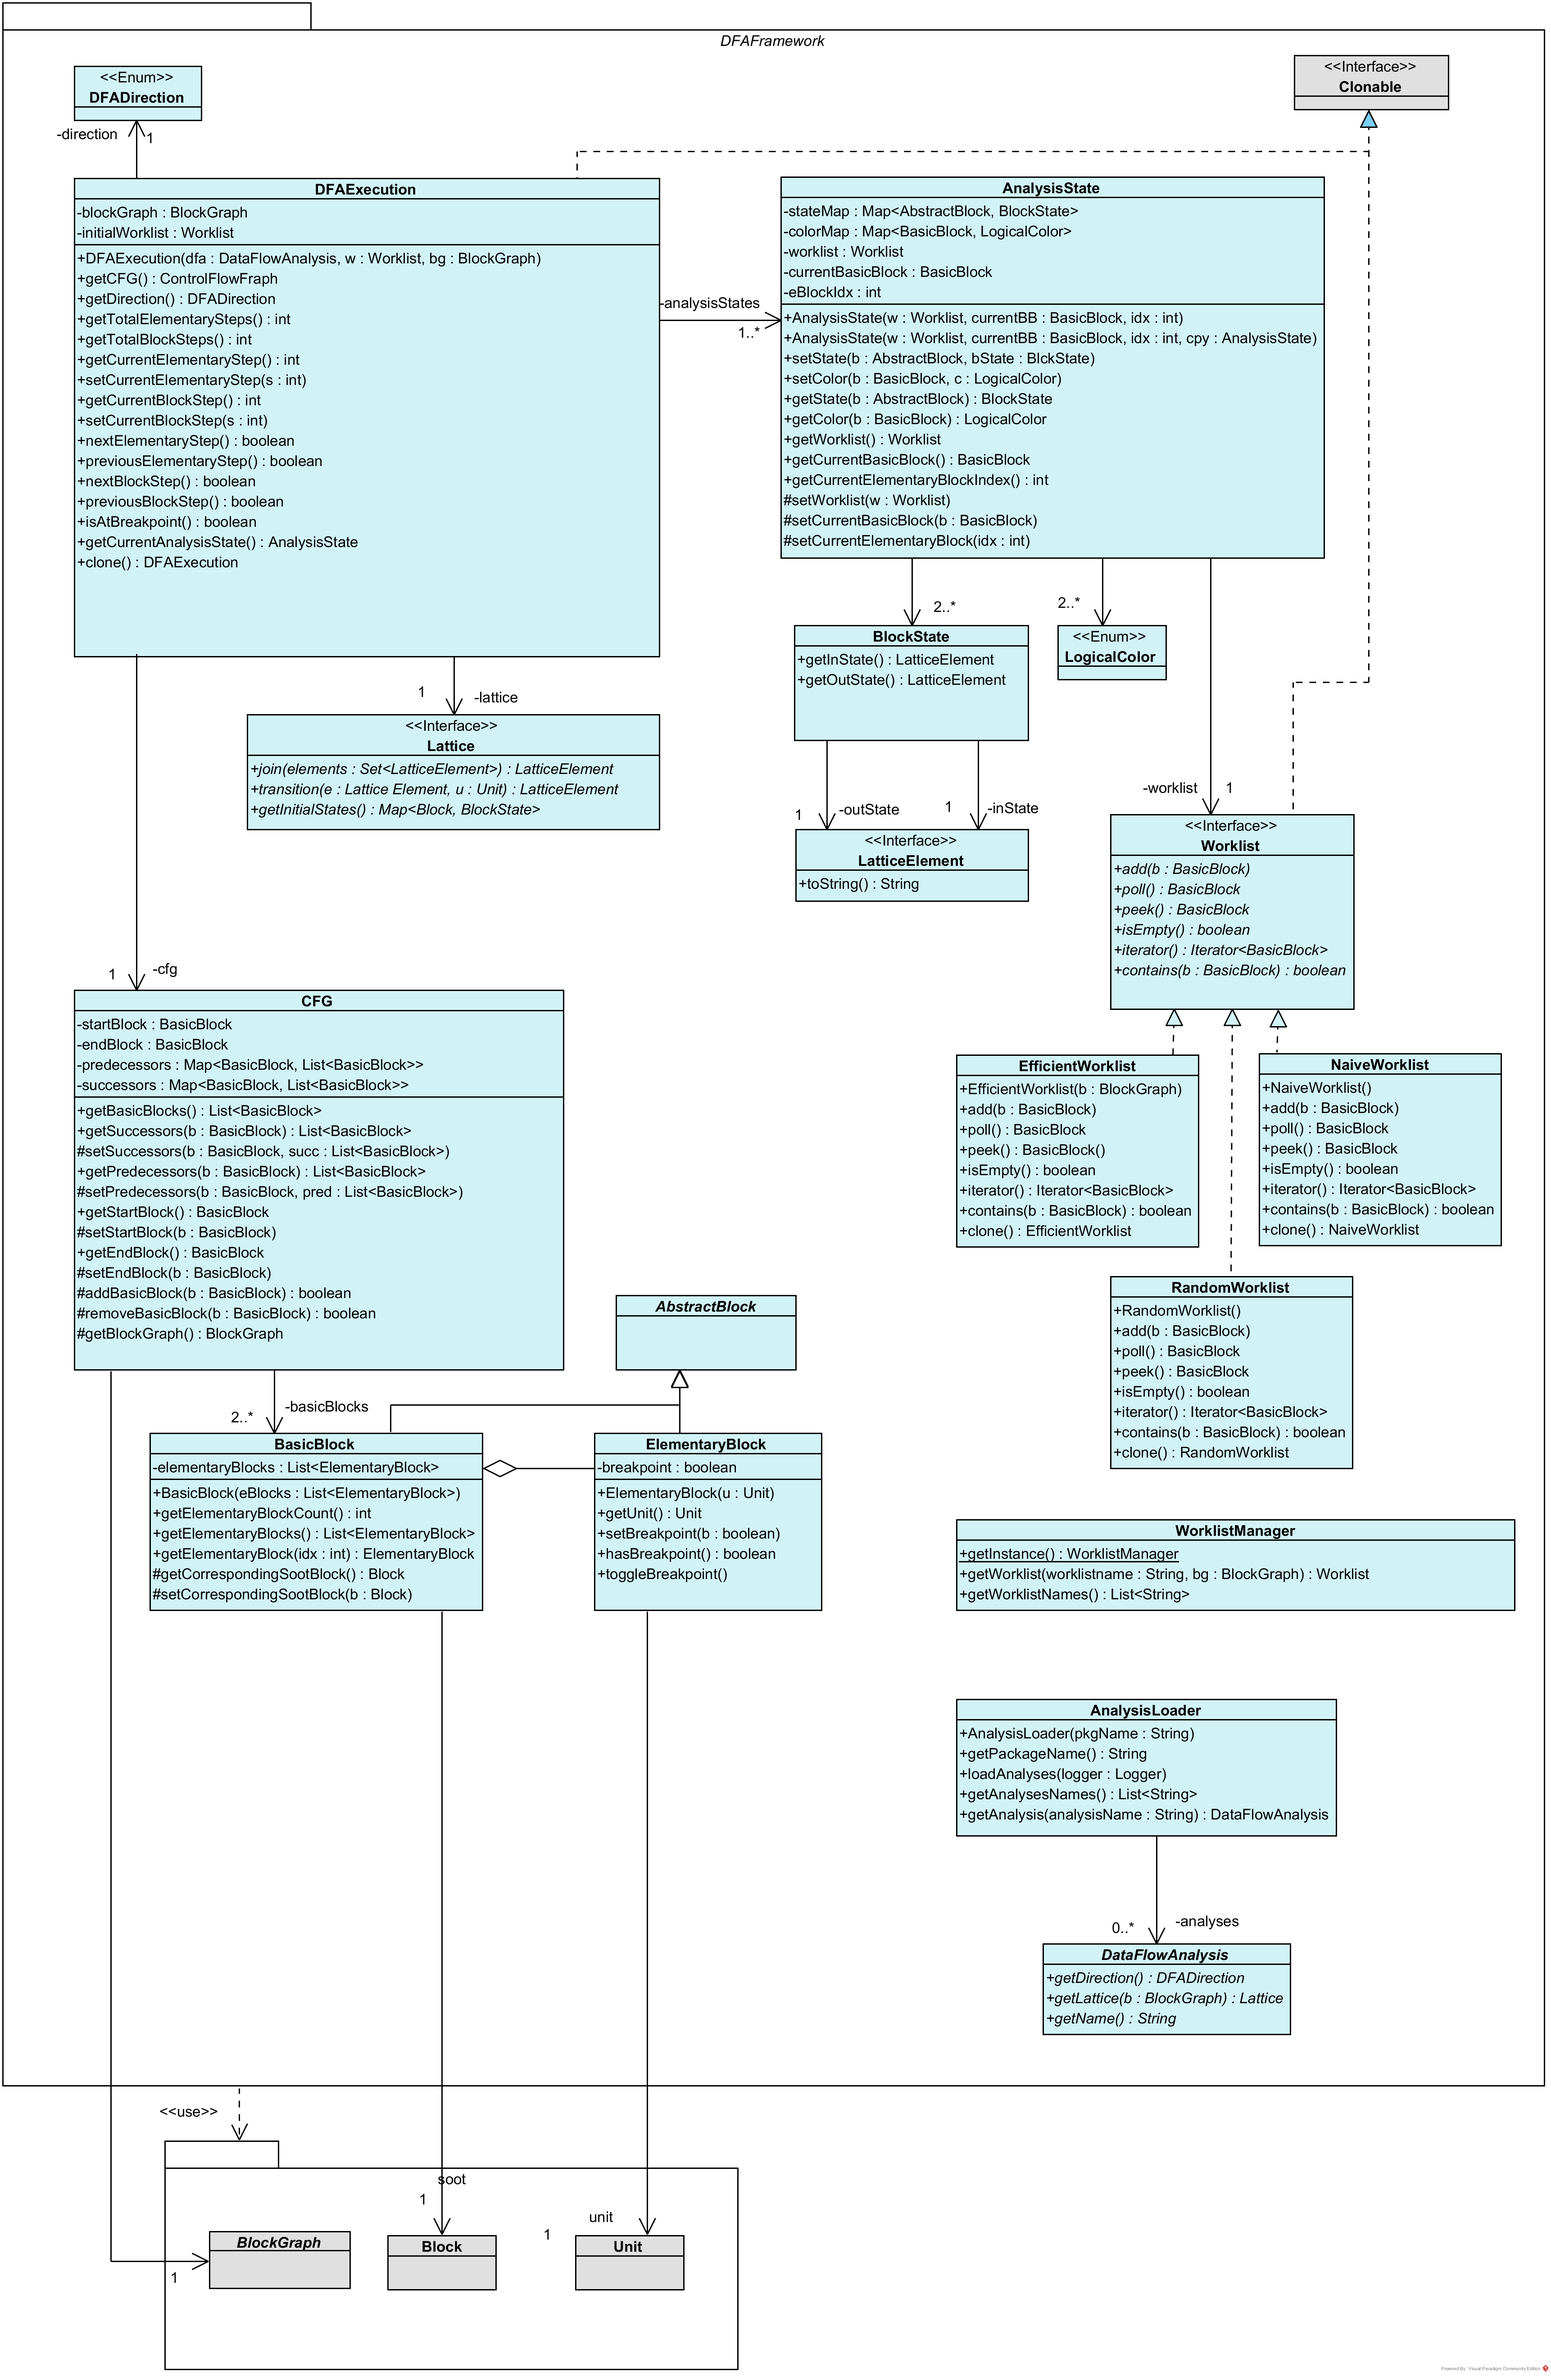
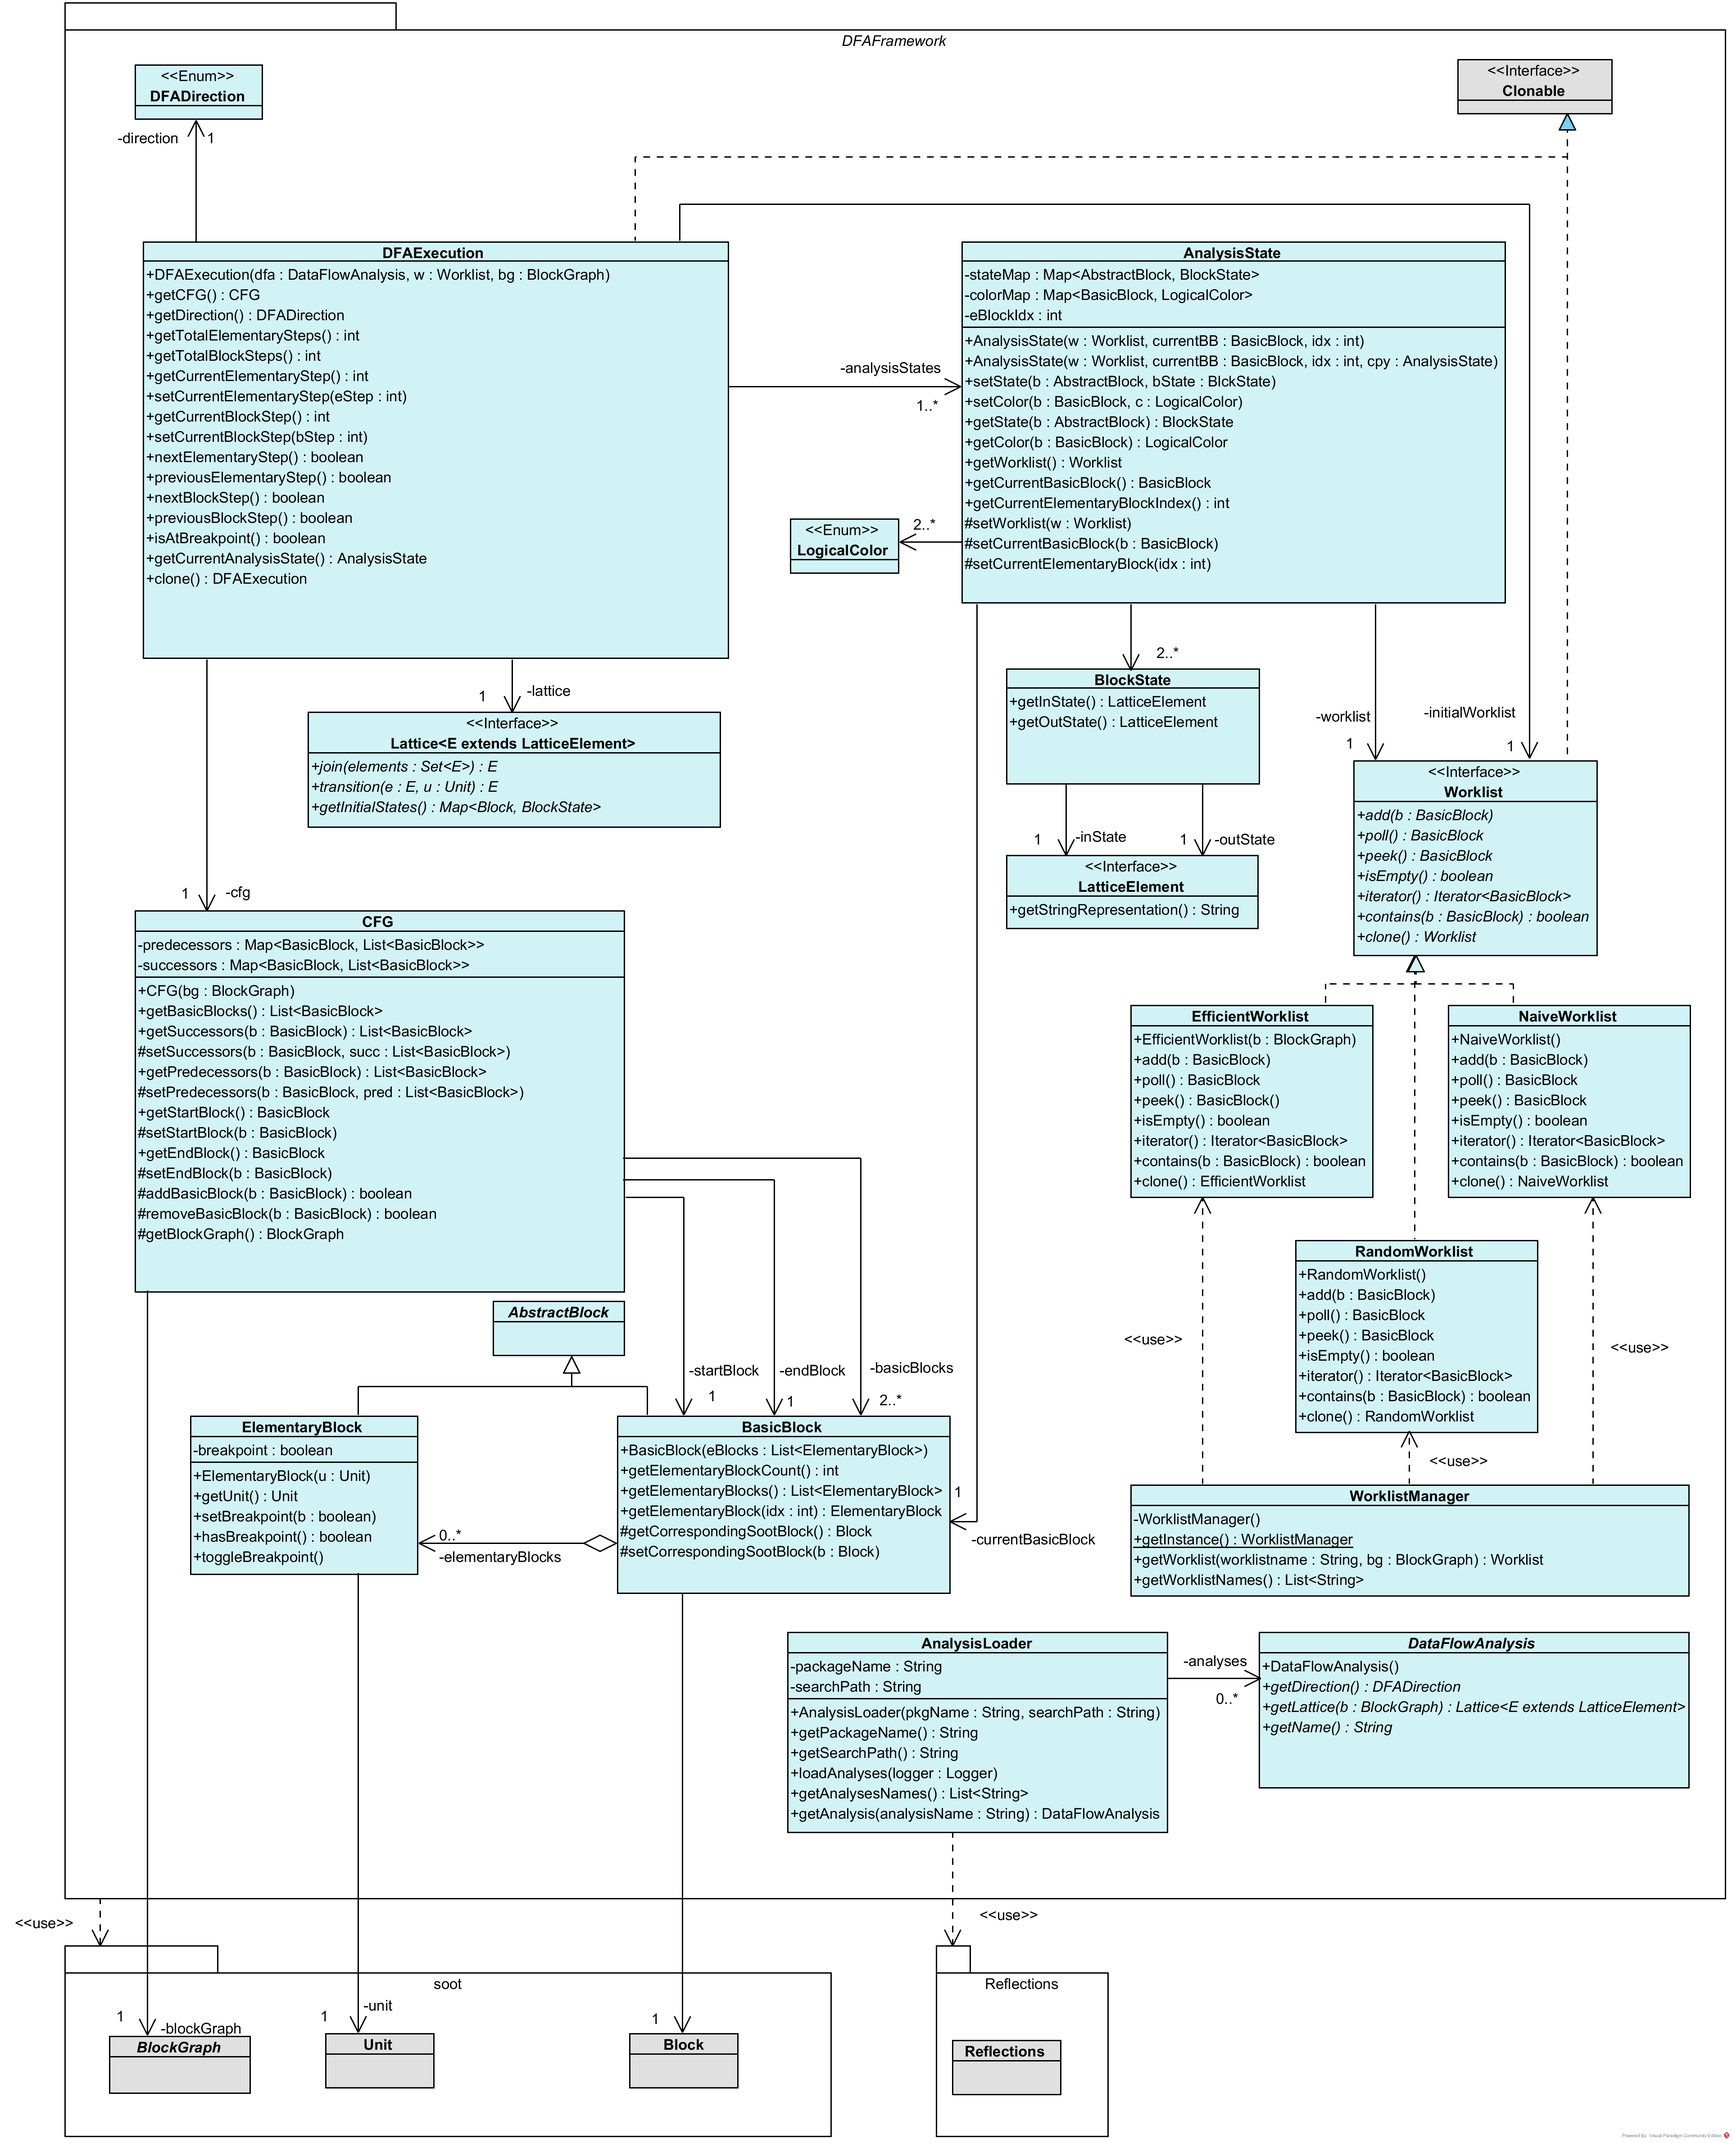
Aktualisiere Diagramme und fuege komplettes Klassendiagramm hinzu.

diff --git a/Entwurf/Sequenzdiagramme/Sequenzdiagramme.tex b/Entwurf/Sequenzdiagramme/Sequenzdiagramme.tex
@@ -2,9 +2,8 @@
 
 \part{Sequenzdiagramme}
 
-\section{Starten des Programms}
-\FloatBarrier
-\begin{figure}
+\section*{Starten des Programms}
+\begin{figure}[H]
   \centering
     \includegraphics[width=1\textwidth]{Sequenzdiagramme/ProgramStart}
   \caption{Starten des Programms}
@@ -14,55 +13,77 @@
 \clearpage
 
 
-\section{Konstruktor der DFAExecution}
+\section*{Konstruktor der DFAExecution}
+\begin{figure}[H]
+	\centering
+	\includegraphics[width=1\textwidth]{Sequenzdiagramme/KonstruktorDFAExecution}
+	\caption{Konstruktoraufruf bei der DFAExecution}
+	\label{fig:dfactor}
+\end{figure}
+\FloatBarrier
 \clearpage
 
 
-\section{Erstellen eines neuen Graphen}
-\begin{figure}[!htp]
+\section*{Erstellen eines neuen Graphen}
+\begin{figure}[H]
   \centering
-    \includegraphics[width=1\textwidth]{Sequenzdiagramme/CreateNewGraph}
-  \caption{Konstruktor der DFAExecution}
-  \label{fig:constructor}
+    \includegraphics[width=1\textwidth]{Sequenzdiagramme/CreateGraph}
+  \caption{Erstellen eines neuen Graphen}
+  \label{fig:creategraph}
 \end{figure}
 \newpage
-\clearpage
 
-\section{Starten der Analyse}
-\begin{figure} [!htp]
+\section*{Graphen aktualisieren}
+\begin{figure}[H]
+	\centering
+	\includegraphics[width=1\textwidth]{Sequenzdiagramme/RefreshGraph}
+	\caption{Aktualisieren des Graphen}
+	\label{fig:graphrefresh}
+\end{figure}
+\newpage
+
+\section*{Starten der Analyse}
+\begin{figure}[H]
   \centering
     \includegraphics[width=1\textwidth]{Sequenzdiagramme/AnalysisStart}
   \caption{Starten der Analyse}
   \label{fig:anaStart}
 \end{figure}
-\FloatBarrier
-\clearpage
+\newpage
 
-\section{Stoppen der Analyse}
-\begin{figure}[!htp]
+\section*{Stoppen der Analyse}
+\begin{figure}[H]
   \centering
     \includegraphics[width=1\textwidth]{Sequenzdiagramme/AnalysisStop}
   \caption{Stoppen der Analyse}
   \label{fig:anaStop}
 \end{figure}
-\clearpage
+\newpage
 
-\section{Den folgenden Block analysieren}
-\begin{figure}[!htp]
+\section*{Den folgenden Block analysieren}
+\begin{figure}[H]
   \centering
     \includegraphics[width=1\textwidth]{Sequenzdiagramme/NextBlock}
   \caption{Den folgenden Block analysieren}
   \label{fig:nextblock}
 \end{figure}
-\FloatBarrier
-\clearpage
+\newpage
 
-\section{Breakpoint setzen}
-\begin{figure}[!htp]
+\section*{Breakpoint setzen}
+\begin{figure}[H]
   \centering
     \includegraphics[width=1\textwidth]{Sequenzdiagramme/SetBreakpoint}
   \caption{Breakpoint setzen}
   \label{fig:breakpoint}
 \end{figure}
-\clearpage
-\FloatBarrier
+\newpage
+
+
+\section*{Graphexport}
+\begin{figure}[H]
+	\centering
+	\includegraphics[width=1\textwidth]{Sequenzdiagramme/GraphExport}
+	\caption{Export des Graphen}
+	\label{fig:graphexport}
+\end{figure}
+\newpage

diff --git a/Entwurf/Klassenuebersicht/Klassenuebersicht.tex b/Entwurf/Klassenuebersicht/Klassenuebersicht.tex
@@ -1,30 +1,4 @@
 %note: don't split this document up with include{...}
 
-\part{Klassenbeschreibung}
+%\part{Klassenbeschreibung}
 
-% the template for one class description
-
-%\class{SomeClass extends Watever implements DontCare}
-%Brief descrition of SomeClass.
-
-%\subparagraph{Attribute} % skip this if there are no attributes
-%\begin{itemize}
-%	\item \attr{attrName}{type}{visibility}{
-%		Description of the attribute.
-%	}
-%\end{itemize}
-%
-%
-%\subparagraph{Konstruktoren} % skip this if there are no constructors
-%\begin{itemize}
-%	\item \method{constructorName}{type}{paramList}{visibility}{
-%		Description of the constructor.
-%	}
-%\end{itemize}
-%
-%\subparagraph{Methoden}  % skip this if there are no methods
-%\begin{itemize}
-%	\item \method{methodName}{type}{paramList}{visibility}{
-%		Description of the method.
-%	}
-%\end{itemize}

diff --git a/Entwurf/AenderungenPflichtenheft/AenderungenPflichtenheft.tex b/Entwurf/AenderungenPflichtenheft/AenderungenPflichtenheft.tex
@@ -1,7 +1,6 @@
 \part{Nachträgliche Änderungen am Pflichtenheft}
 
-\subparagraph{Unterstütztes Java-Subset}
-
+\subsection*{Unterstütztes Java-Subset} 
 Da jede Analyse mit (Jimple-)Statements auf eine eigene Art und Weise umgeht, ist in jeder implementierten Analyse der Umgang mit den Statements einzeln definiert.
 Dies bedeutet, dass alle im Pflichtenheft angegebenen Kontrollflussstrukturen und Statements für alle im Pflichtenheft angegebenen Analysen implementiert werden.
 Falls ein Endbenutzer sich dazu entschließt selbst eine Analyse zu erstellen, so muss er selbst festlegen mit welchen Statements seine Analyse funktionieren soll und den Umgang mit diesen implementieren.

diff --git a/Entwurf/Entwurf.tex b/Entwurf/Entwurf.tex
@@ -82,7 +82,8 @@
 	
 	\include{Entwurfsentscheidungen/Entwurfsentscheidungen}
 
-    \include{Klassenuebersicht/Klassenuebersicht}
+    %\include{Klassenuebersicht/Klassenuebersicht}
+    
 	\include{Klassenuebersicht/Controller/Controller}
 	\include{Klassenuebersicht/CodeProcessor/CodeProcessor}
 	\include{Klassenuebersicht/DFAFramework/DFAFramework}

diff --git a/Entwurf/Klassendiagramm/Klassendiagramm.tex b/Entwurf/Klassendiagramm/Klassendiagramm.tex
@@ -1,1 +1,7 @@
 \part{Klassendiagramm}
+\begin{figure}[H]
+	\centering
+	\includegraphics[width=1\textwidth]{Klassendiagramm/completeOverview}
+	\caption{Gesamtes Klassendiagramm}
+	\label{fig:start}
+\end{figure}

diff --git a/Entwurf/Klassenuebersicht/Controller/Controller.tex b/Entwurf/Klassenuebersicht/Controller/Controller.tex
@@ -1,5 +1,7 @@
 %note: don't split this document up with include{...}
 
+\part{Klassenbeschreibung}
+
 \section{Controller}
 
 \subsection{Klassendiagramm}
